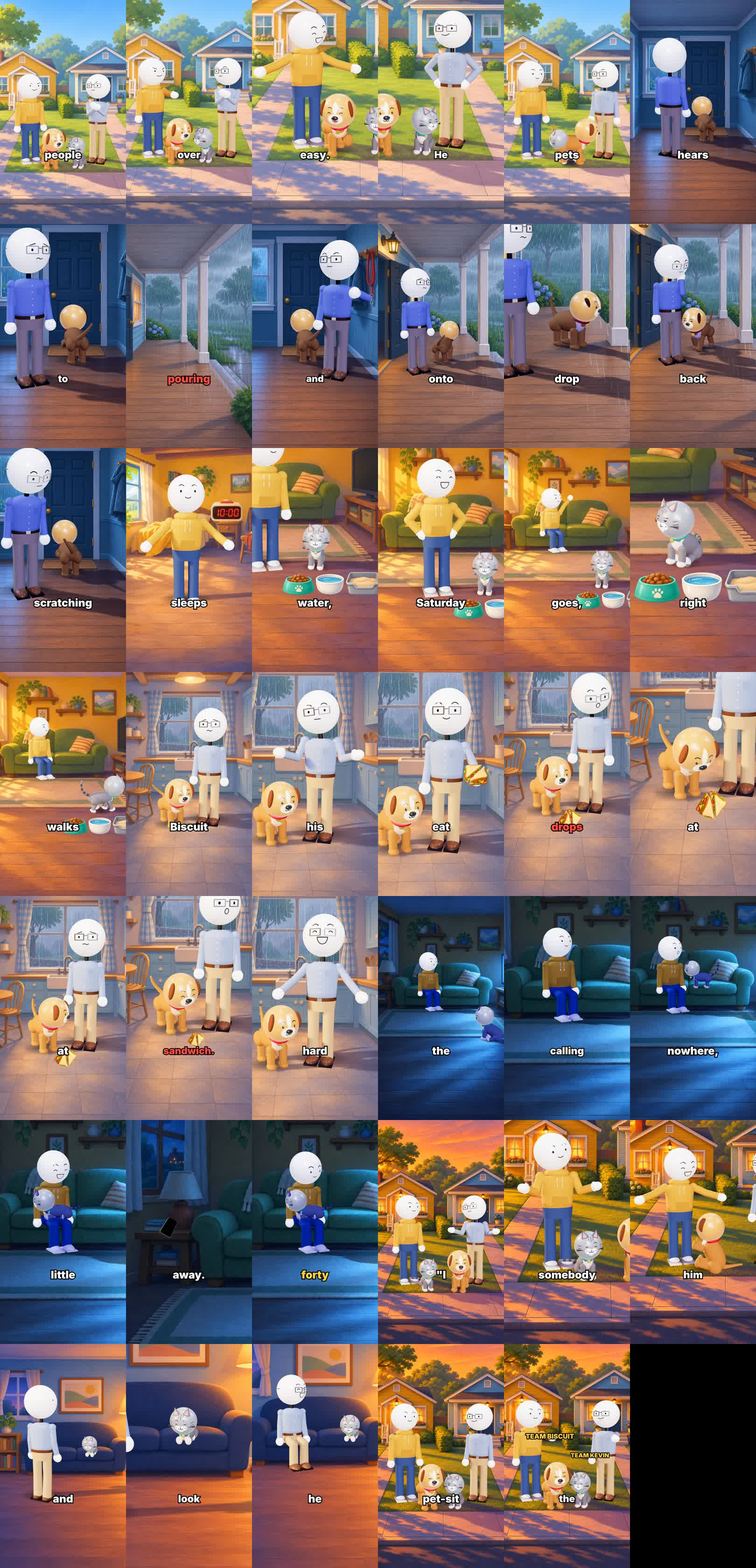
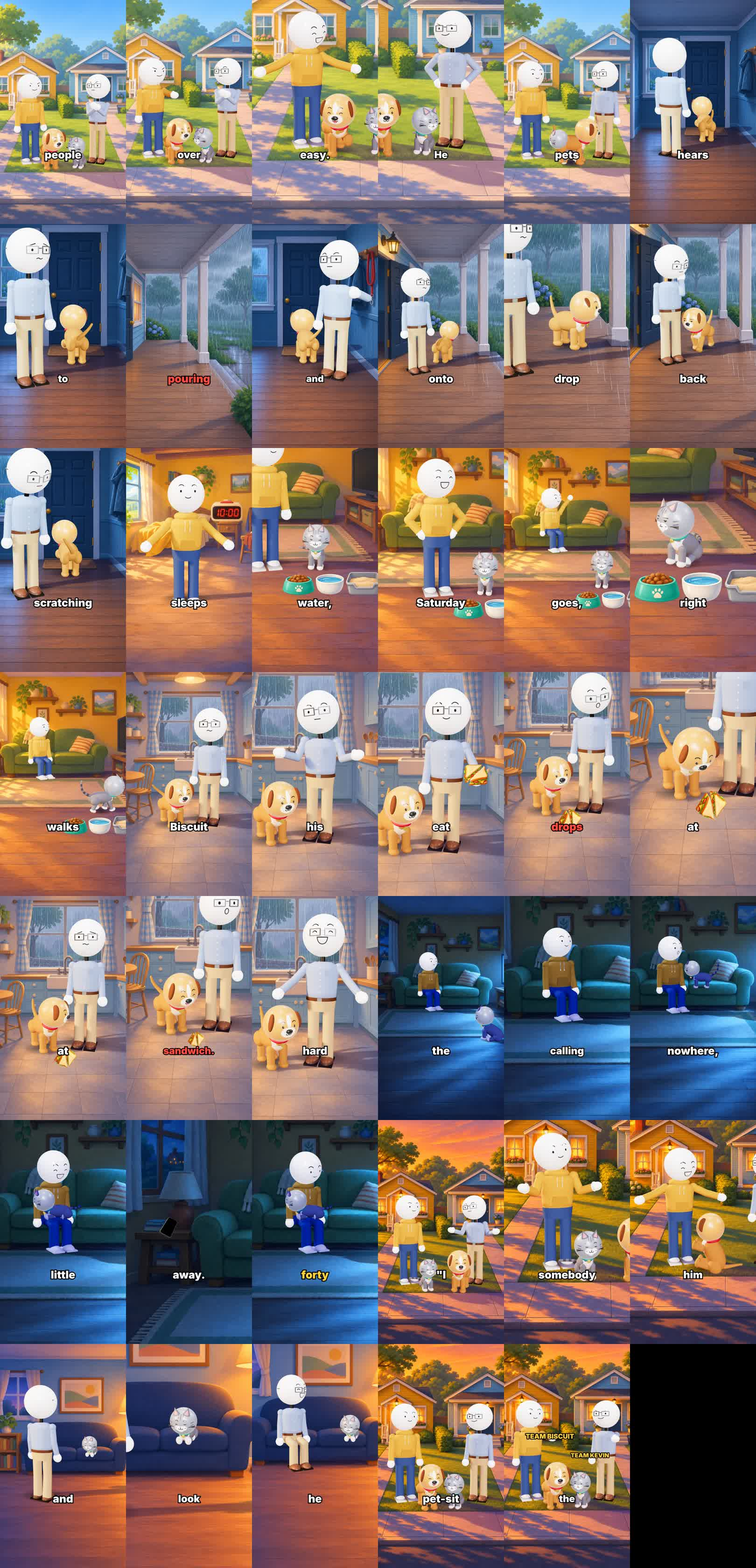
Dawn light preset: cast keeps true colors in gloomy plates (cats-vs-dogs hallway + porch)
Claude-Session: https://claude.ai/code/session_01HD3jrGNNHWK6SpmUTFqRAw

diff --git a/videos/cats-vs-dogs/scene.js b/videos/cats-vs-dogs/scene.js
@@ -30,8 +30,8 @@
   window.SCENE = {
     plates: {
       '01': { img: '01_two_houses_day.png', hz: .43, vx: .5, fov0: 55, camH: 1.95, light: 'day' },
-      '02': { img: '02_gary_hallway_dawn.png', hz: .30, vx: .55, fov0: 55, camH: 1.95, light: 'night' },
-      '03': { img: '03_gary_porch_rain.png', hz: .35, vx: .45, fov0: 55, camH: 1.95, light: 'night' },
+      '02': { img: '02_gary_hallway_dawn.png', hz: .30, vx: .55, fov0: 55, camH: 1.95, light: 'dawn' },
+      '03': { img: '03_gary_porch_rain.png', hz: .35, vx: .45, fov0: 55, camH: 1.95, light: 'dawn' },
       '04': { img: '04_doug_living_room_day.png', hz: .30, vx: .5, fov0: 55, camH: 1.95, light: 'interior' },
       '05': { img: '05_doug_living_room_night.png', hz: .30, vx: .5, fov0: 55, camH: 1.95, light: 'night' },
       '06': { img: '06_doug_bedroom_morning.png', hz: .27, vx: .5, fov0: 55, camH: 1.95, light: 'interior' },

diff --git a/engine/plate-kit.js b/engine/plate-kit.js
@@ -64,6 +64,8 @@
     day: { key: [0xffc888, 2.7, [-12, 7, -6]], hemi: [0xc8b8ff, 0xe8a070, .7], front: [0xffe6d6, 1.1], shadow: [0x4a2a6a, .40] },
     night: { key: [0x9aaeff, 1.1, [-12, 9, -6]], hemi: [0x6878d8, 0x403058, .9], front: [0x8a90ff, .8], shadow: [0x0a0a30, .50] },
     interior: { key: [0xffc888, 2.2, [-12, 5, 2]], hemi: [0xd0c8ff, 0xc09070, .8], front: [0xffe6d6, 1.0], shadow: [0x3a2a4a, .38] },
+    // gloomy dawn / rainy day: cool mood in the painting, but near-neutral light so cast colors stay true (Biscuit stays gold)
+    dawn: { key: [0xe6ecff, 1.8, [-10, 7, 4]], hemi: [0xdfe6ff, 0xb0a090, .95], front: [0xfff2e6, 1.15], shadow: [0x1a1a40, .42] },
   };
   function setLight(n) { const L = LIGHTS[n] || LIGHTS.day;
     key.color.copy(lin(L.key[0])); key.intensity = L.key[1]; key.position.set(...L.key[2]);
